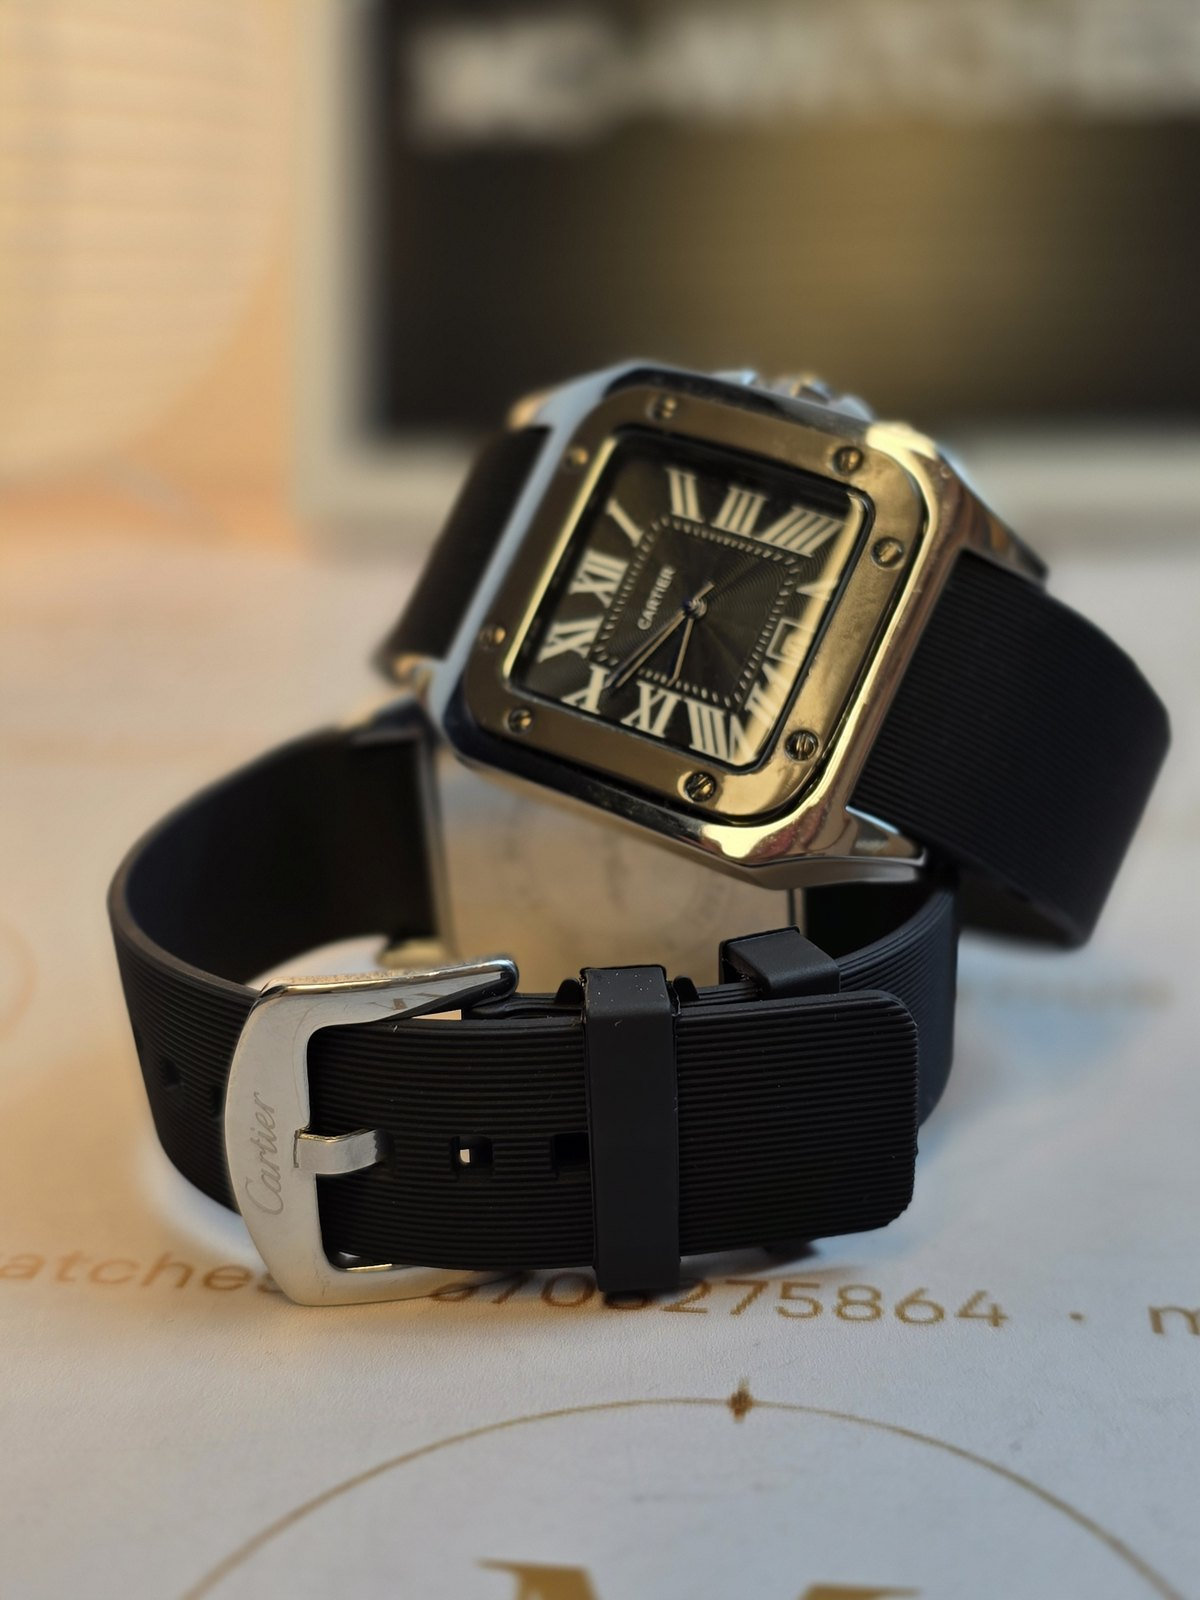
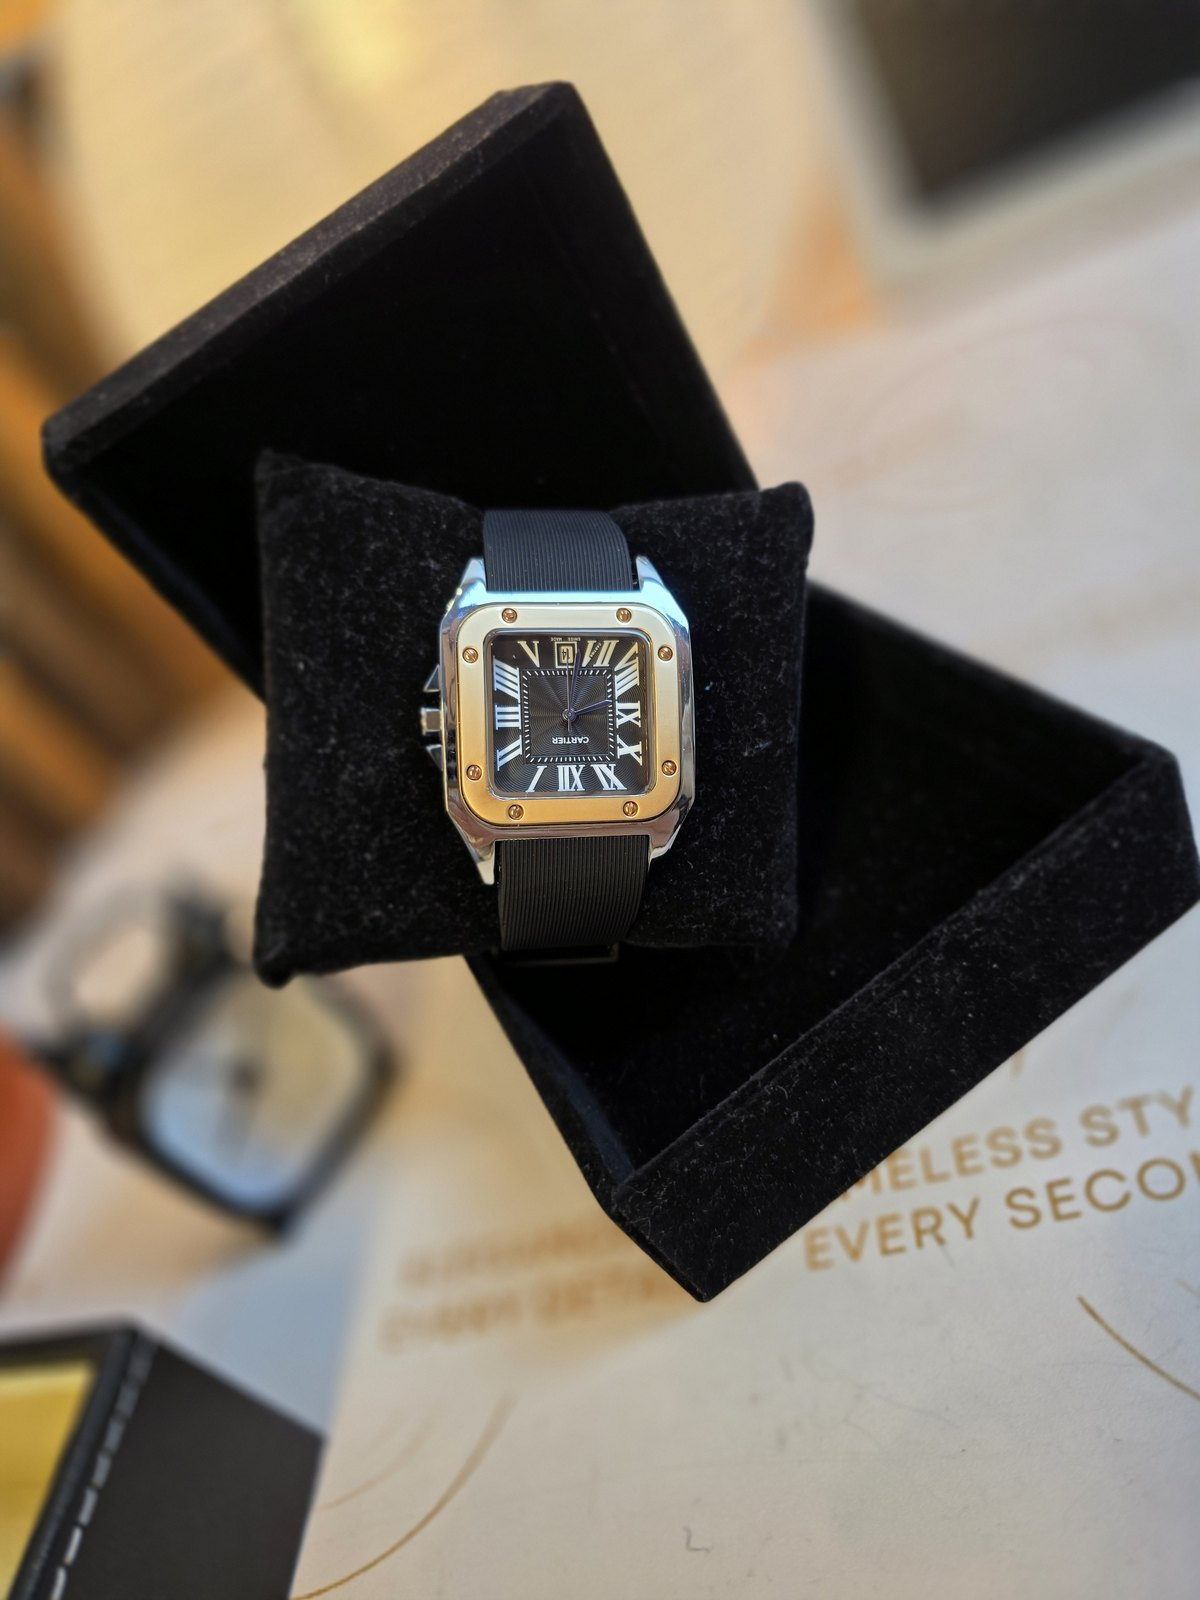
MC-06 : la premiere photo du noir et or saute
La fiche ouvre maintenant sur la montre entiere, pas sur le gros plan.

diff --git a/data.js b/data.js
@@ -127,7 +127,7 @@ window.MC = {
       prix: 249,
       couleurs: [
         { nom: "Noir et or", code: "#171717", code2: "#C9A227",
-          photos: ["images/mc06/OR1.jpg", "images/mc06/OR2.jpg", "images/mc06/OR3.jpg", "images/mc06/OR4.jpg", "images/mc06/OR5.jpg"] },
+          photos: ["images/mc06/OR1.jpg", "images/mc06/OR2.jpg", "images/mc06/OR3.jpg", "images/mc06/OR4.jpg"] },
         { nom: "Noir", code: "#171717",
           photos: ["images/mc06/NOIR1.jpg", "images/mc06/NOIR2.jpg", "images/mc06/NOIR3.jpg", "images/mc06/NOIR4.jpg"] }
       ],

diff --git a/index.html b/index.html
@@ -52,10 +52,10 @@
     } catch (e) {}
   })();
   </script>
-  <link rel="stylesheet" href="styles.css?v=36">
-  <script src="data.js?v=36" defer></script>
-  <script src="i18n.js?v=36" defer></script>
-  <script src="site.js?v=36" defer></script>
+  <link rel="stylesheet" href="styles.css?v=37">
+  <script src="data.js?v=37" defer></script>
+  <script src="i18n.js?v=37" defer></script>
+  <script src="site.js?v=37" defer></script>
   <script type="application/ld+json">
 {
   "@context": "https://schema.org",

diff --git a/livraison.html b/livraison.html
@@ -52,10 +52,10 @@
     } catch (e) {}
   })();
   </script>
-  <link rel="stylesheet" href="styles.css?v=36">
-  <script src="data.js?v=36" defer></script>
-  <script src="i18n.js?v=36" defer></script>
-  <script src="site.js?v=36" defer></script>
+  <link rel="stylesheet" href="styles.css?v=37">
+  <script src="data.js?v=37" defer></script>
+  <script src="i18n.js?v=37" defer></script>
+  <script src="site.js?v=37" defer></script>
   <script type="application/ld+json">
 {
   "@context": "https://schema.org",

diff --git a/404.html b/404.html
@@ -54,10 +54,10 @@
     } catch (e) {}
   })();
   </script>
-  <link rel="stylesheet" href="styles.css?v=36">
-  <script src="data.js?v=36" defer></script>
-  <script src="i18n.js?v=36" defer></script>
-  <script src="site.js?v=36" defer></script>
+  <link rel="stylesheet" href="styles.css?v=37">
+  <script src="data.js?v=37" defer></script>
+  <script src="i18n.js?v=37" defer></script>
+  <script src="site.js?v=37" defer></script>
 </head>
 <body>
   <a class="skip-link" href="#contenu">Aller au contenu</a>

diff --git a/panier.html b/panier.html
@@ -53,10 +53,10 @@
     } catch (e) {}
   })();
   </script>
-  <link rel="stylesheet" href="styles.css?v=36">
-  <script src="data.js?v=36" defer></script>
-  <script src="i18n.js?v=36" defer></script>
-  <script src="site.js?v=36" defer></script>
+  <link rel="stylesheet" href="styles.css?v=37">
+  <script src="data.js?v=37" defer></script>
+  <script src="i18n.js?v=37" defer></script>
+  <script src="site.js?v=37" defer></script>
 </head>
 <body>
   <a class="skip-link" href="#contenu">Aller au contenu</a>

diff --git a/produit.html b/produit.html
@@ -52,10 +52,10 @@
     } catch (e) {}
   })();
   </script>
-  <link rel="stylesheet" href="styles.css?v=36">
-  <script src="data.js?v=36" defer></script>
-  <script src="i18n.js?v=36" defer></script>
-  <script src="site.js?v=36" defer></script>
+  <link rel="stylesheet" href="styles.css?v=37">
+  <script src="data.js?v=37" defer></script>
+  <script src="i18n.js?v=37" defer></script>
+  <script src="site.js?v=37" defer></script>
 </head>
 <body>
   <a class="skip-link" href="#contenu">Aller au contenu</a>

diff --git a/produits.html b/produits.html
@@ -52,10 +52,10 @@
     } catch (e) {}
   })();
   </script>
-  <link rel="stylesheet" href="styles.css?v=36">
-  <script src="data.js?v=36" defer></script>
-  <script src="i18n.js?v=36" defer></script>
-  <script src="site.js?v=36" defer></script>
+  <link rel="stylesheet" href="styles.css?v=37">
+  <script src="data.js?v=37" defer></script>
+  <script src="i18n.js?v=37" defer></script>
+  <script src="site.js?v=37" defer></script>
 </head>
 <body>
   <a class="skip-link" href="#contenu">Aller au contenu</a>
